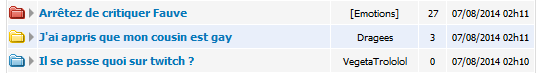
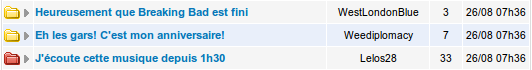
- Ajout de PEMT Hilight

diff --git a/index.php b/index.php
@@ -106,6 +106,21 @@
 
 		<div class="panel panel-default feature" >
 			<div class="panel-heading" >
+				<h3>Mise en avant des PEMT</h3>
+				<h4>(Contributeur : <a target="_blank" href="https://github.com/nounoursheureux" >nounoursheureux</a>)</h4>
+			</div>
+			<div class="panel-body" >
+				<p>
+					Met en avant les posts simultanés en surlignant l'heure de ces posts.
+				</p>
+				<div data-toggle="tooltip" class="feature-img" title="PEMT" >
+					<img src="img/pemt.png" />
+				</div>
+			</div>
+		</div>
+
+		<div class="panel panel-default feature" >
+			<div class="panel-heading" >
 				<h3>Accès rapide à la dernière page d'un topic</h3>
 			</div>
 			<div class="panel-body" >

diff --git a/nav.php b/nav.php
@@ -28,7 +28,7 @@
                     <input name="bn" value="PP-DonationsBF:1408178230-capture-du-2014-08-16-10-33-38.jpg:NonHostedGuest" type="hidden">
                 </form>
                 <li>
-                    <a onclick="$('.donation-form').submit();" href="#">Donner 2€</a>
+                    <a onclick="$('.donation-form').submit();" title="Donner 2€ pour l'hébergement du script" href="#">Me payer une bière</a>
                 </li>
                 <li>
                     <div>

diff --git a/download-box.php b/download-box.php
@@ -74,7 +74,7 @@
 	</form>
 	<li>
 	    <a class="donation-download-button btn btn-warning btn-lg" onclick="$('.donation-download-form').submit();" href="#">
-	    	<span class="glyphicon glyphicon-heart-empty"></span> Donner 2€ à Spixel_
+	    	<span class="glyphicon glyphicon-heart-empty"></span> Donner 2€ pour l'hébergement du script
 	    </a>
 	</li>
 </div>
